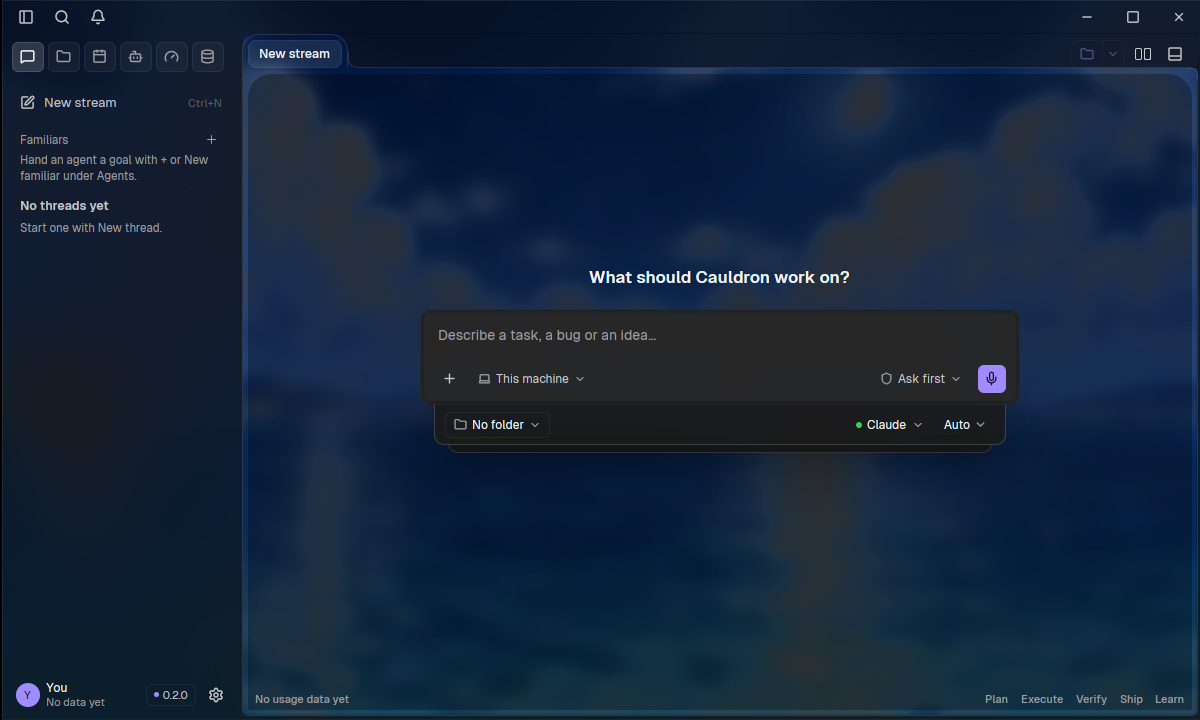
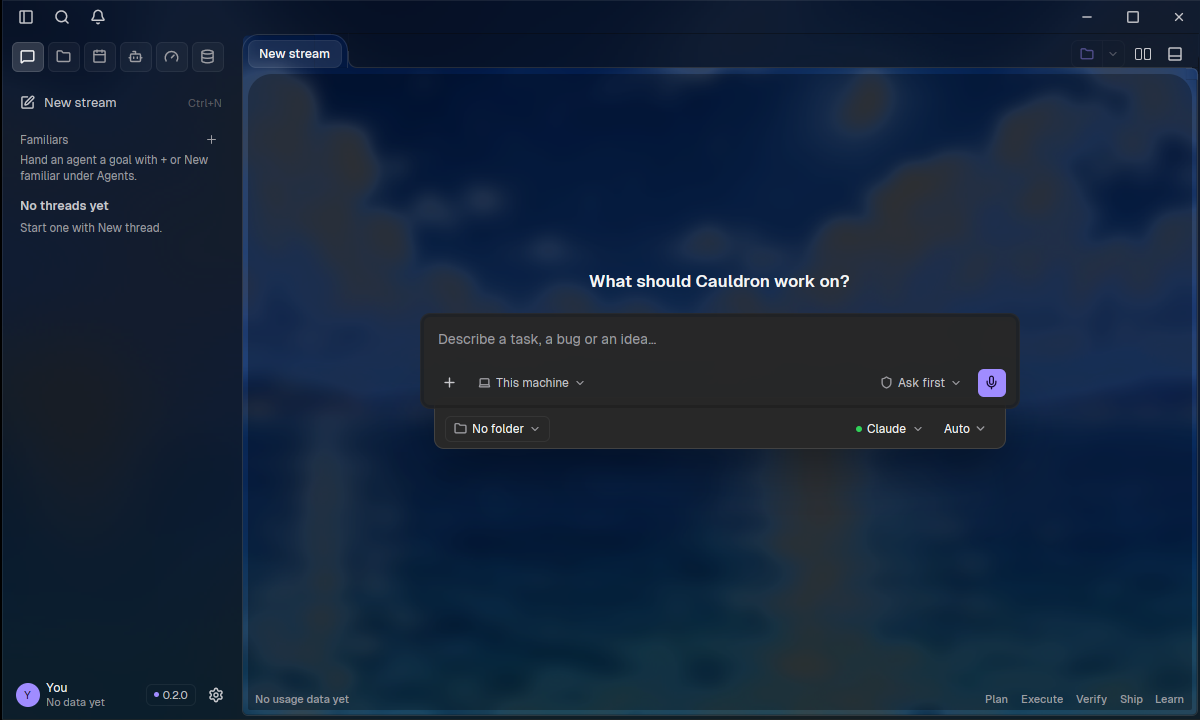
Stacked picker: a solid card, no third card under it
Claude-Session: https://claude.ai/code/session_01LKPD2JwAsG1dQmA612ZZFE

diff --git a/crates/app/src/shell/newthread.rs b/crates/app/src/shell/newthread.rs
@@ -545,17 +545,17 @@ impl Cauldron {
         });
         let grow = if stacked { super::subs::TRAY_OPEN_H + super::subs::STACK_GAP } else { super::subs::TRAY_OPEN_H };
         let nt_stack = if stacked {
-            // Stacked (Charles, 20 Nov, board round 2): the chips ride a card tucked behind the box,
-            // with a rim of a third card under it; opening drops that card out below the box, a
+            // Stacked (Charles, 20 Nov, board round 2): the chips ride a solid card tucked behind the
+            // box; opening drops that card out below the box, a
             // small gap apart, and unfolds the picker in it. Drawn back to front, laid out top down.
             let tuck = super::subs::STACK_TUCK;
             let line = c(if self.painting { pal.line_strong } else { pal.line });
-            let card = |d: gpui::Stateful<Div>| d.rounded(px(radius::SHELL)).border_1().border_color(line).bg(super::backdrop::surface(self.painting, pal.raised, super::backdrop::GLASS_COMPOSER)).child(div().absolute().left_0().top_0().size_full().rounded(px(radius::SHELL)).bg(gpui::black().opacity(0.30)));
-            // The rim and the card are laid out from the stack's bottom, behind the box, so the box
-            // (drawn last) covers their tucked tops; a spacer under the box makes their room.
+            // Solid, not glass (Charles, 20 Nov): the card reads as an object behind the box.
+            let card = |d: gpui::Stateful<Div>| d.rounded(px(radius::SHELL)).border_1().border_color(line).bg(c(pal.raised));
+            // The card is laid out from the stack's bottom, behind the box, so the box
+            // (drawn last) covers its tucked top; a spacer under the box makes its room.
             let (gap, tray_h) = (super::subs::STACK_GAP, super::subs::TRAY_OPEN_H);
-            let rim = card(div().id("nt-rim").absolute().left(px(28.)).right(px(28.)).bottom_0().h(px(tuck + 8.))).test_support();
-            let mut mid = card(div().id("nt-card").absolute().left(px(14.)).right(px(14.)).bottom(px(8.)).flex().flex_col().overflow_hidden())
+            let mut mid = card(div().id("nt-card").absolute().left(px(14.)).right(px(14.)).bottom_0().flex().flex_col().overflow_hidden())
                 .shadow(vec![gpui::BoxShadow { color: gpui::black().opacity(0.45), offset: gpui::point(px(0.), px(10.)), blur_radius: px(28.), spread_radius: px(0.), inset: false }])
                 .child(bar);
             if tray_open {
@@ -567,13 +567,13 @@ impl Cauldron {
                 // The tucked strip turns into the gap as the card drops out and unfolds.
                 (
                     mid.with_animation("nt-card-drop", super::motion::anim(220.), move |d, t| d.pt(px(tuck * (1.0 - t))).h(px(40.0 + tuck + (tray_h - tuck) * t))).into_any_element(),
-                    spacer.with_animation("nt-card-room", super::motion::anim(220.), move |d, t| d.h(px(48.0 + (gap + tray_h) * t))).into_any_element(),
+                    spacer.with_animation("nt-card-room", super::motion::anim(220.), move |d, t| d.h(px(40.0 + (gap + tray_h) * t))).into_any_element(),
                 )
             } else {
-                (mid.pt(px(tuck)).h(px(40.0 + tuck)).into_any_element(), spacer.h(px(48.)).into_any_element())
+                (mid.pt(px(tuck)).h(px(40.0 + tuck)).into_any_element(), spacer.h(px(40.)).into_any_element())
             };
             let front = glass(div().id("nt-front").relative().flex().flex_col().p(px(3.))).child(nt_box).test_support();
-            nt_stack.flex_col().child(rim).child(mid).child(front).child(spacer)
+            nt_stack.flex_col().child(mid).child(front).child(spacer)
         } else {
             glass(nt_stack.flex_col().p(px(3.))).child(nt_box).child(bar).when_live(tray_open, |d| d.child(self.route_tray(pal, cx)))
         }
@@ -1403,7 +1403,7 @@ mod tests {
             let tuck = super::super::subs::STACK_TUCK;
             assert!((card.1 - (front.1 + front.3 - tuck)).abs() <= 1.0, "tucked under the box: {card:?} {front:?}");
             assert!(card.0 > front.0 && card.0 + card.2 < front.0 + front.2, "narrower than the box");
-            assert!(rect(window, "nt-rim").1 + rect(window, "nt-rim").3 > card.1 + card.3, "a rim of the card behind shows under it");
+            assert!(window.try_find("nt-rim").is_none(), "two cards, no third (Charles, 20 Nov)");
             window.click("nt-model", cx);
             window.render_frame(cx);
             assert_eq!(rect(window, "nt-front"), front, "the box never moves");

diff --git a/HANDOFF.md b/HANDOFF.md
@@ -26,8 +26,8 @@
   matches the tray). An open stream still uses the popover menu.
 - **Round 2 (Charles, 22:39Z)**: only the stream's own tab sits in the card's tab; agent tabs and +
   sit on the frame past the foot (`TAB_SEP`). Model picker gains "Stacked" (Settings > Appearance >
-  Model picker, pref `model_tray`), Unfold stays the default: a card tucked 12px behind the box with
-  a rim under it drops out 6px below the box and holds the tray, with a drop shadow.
+  Model picker, pref `model_tray`), Unfold stays the default: a solid card tucked 12px behind the box
+  (no third card) drops out 6px below the box and holds the tray, with a drop shadow.
 
 **Session, 17 Nov 2026: Cauldron M6, the execution engine (sandbox and herdr).**
 
